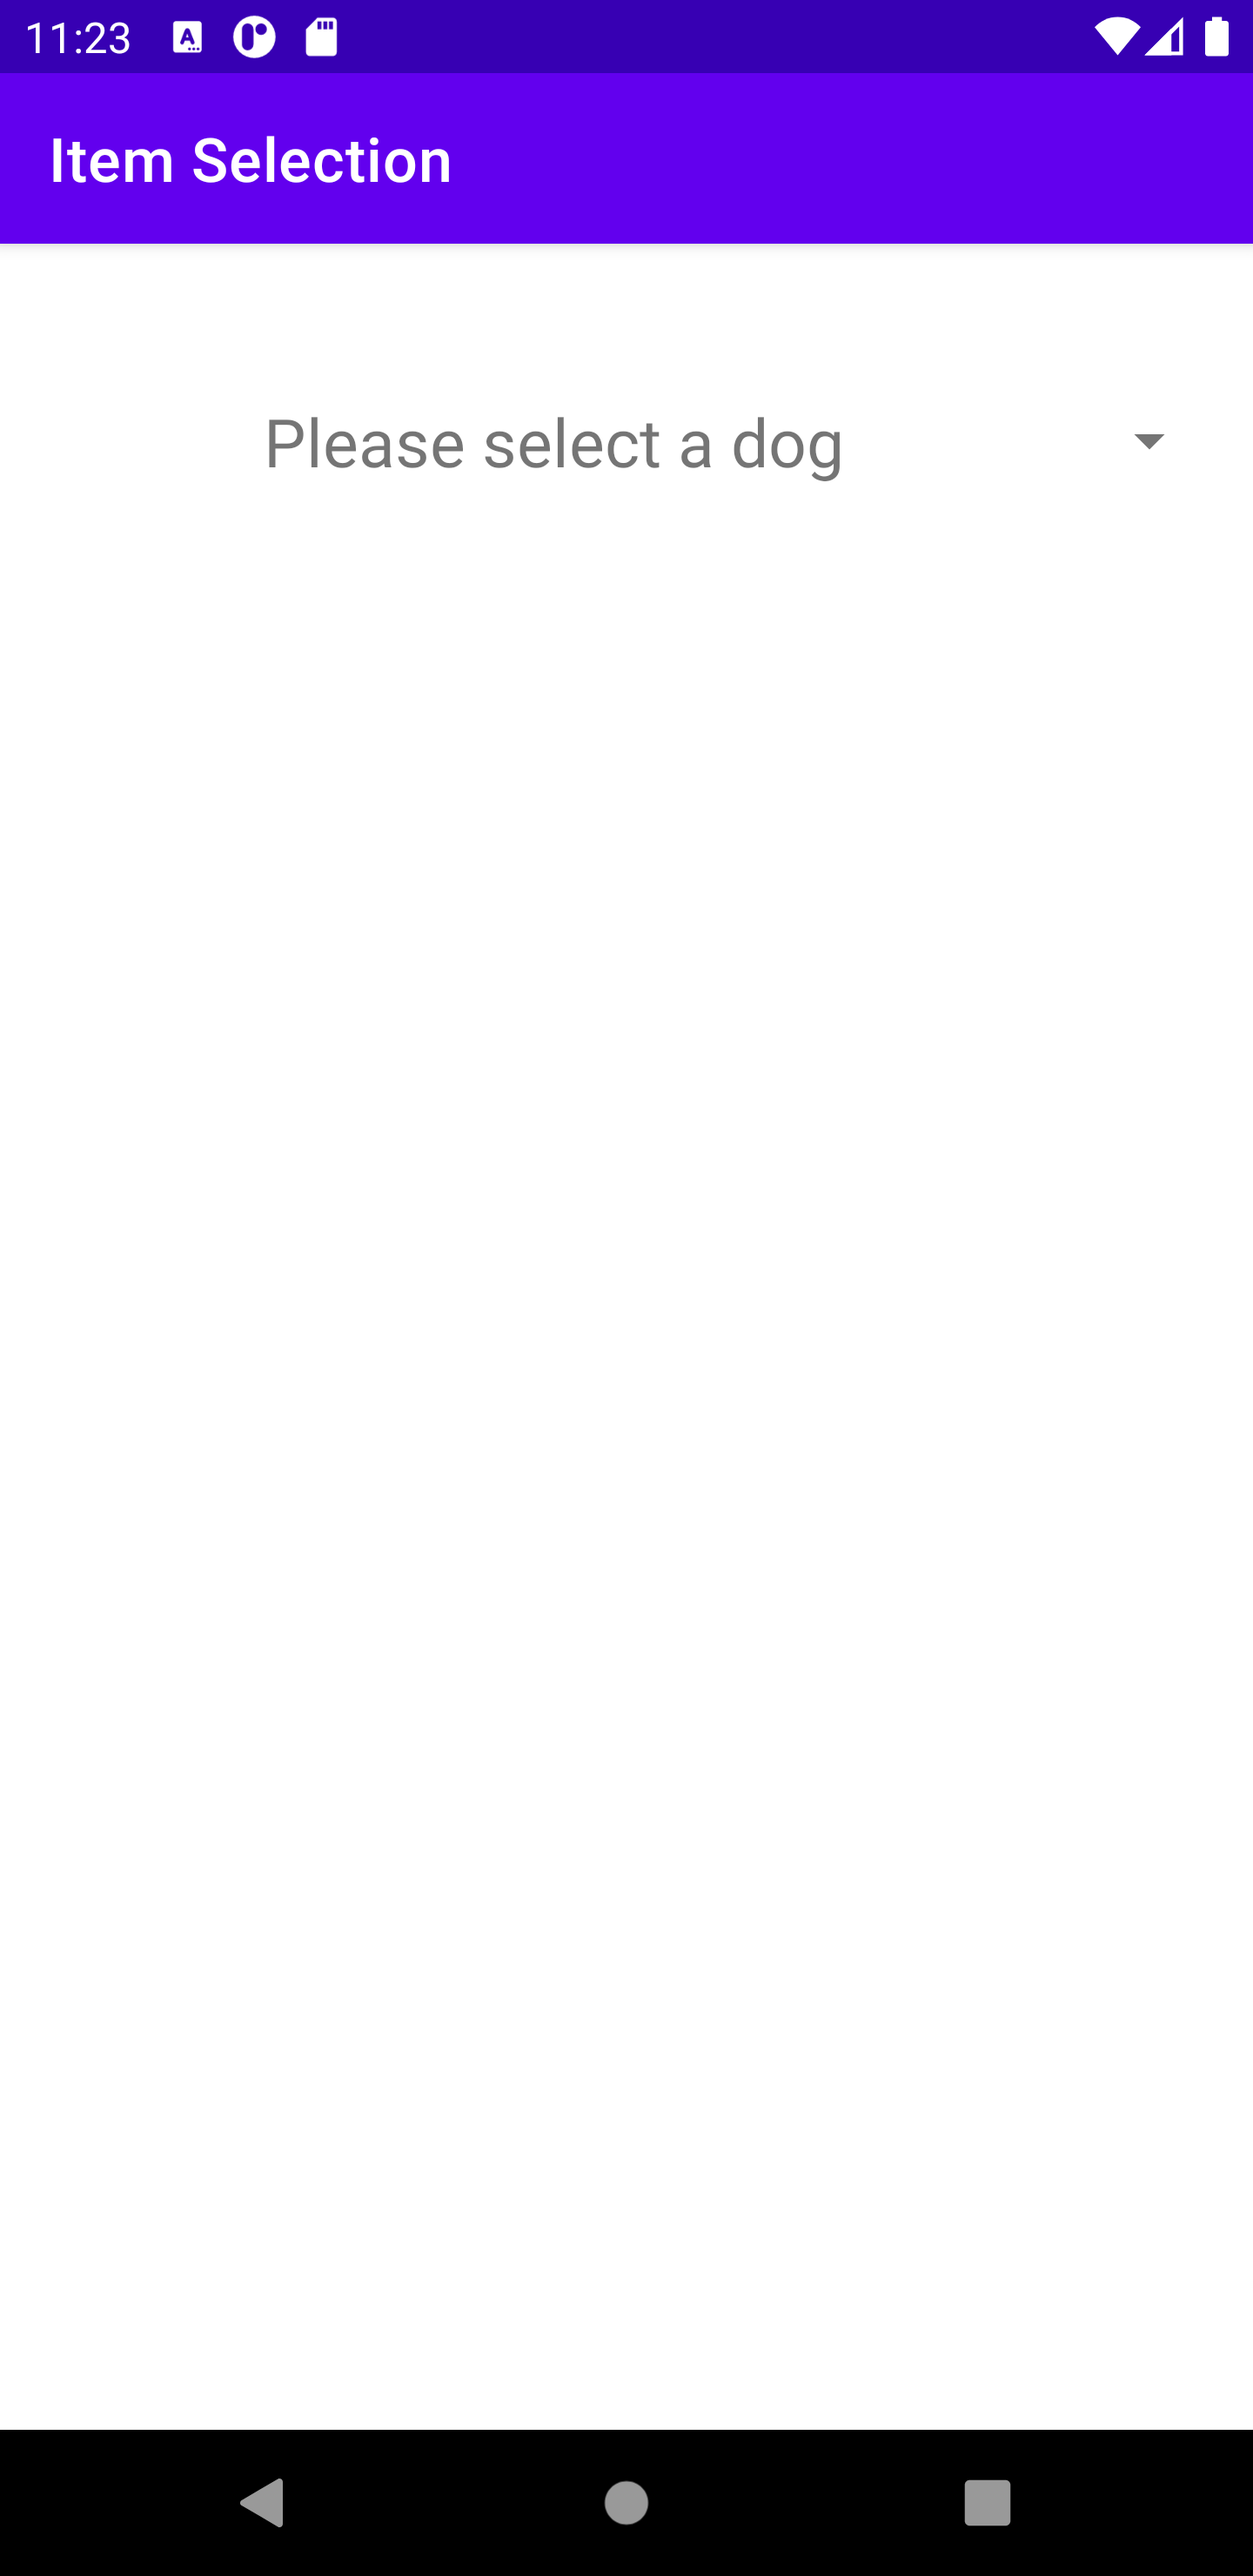
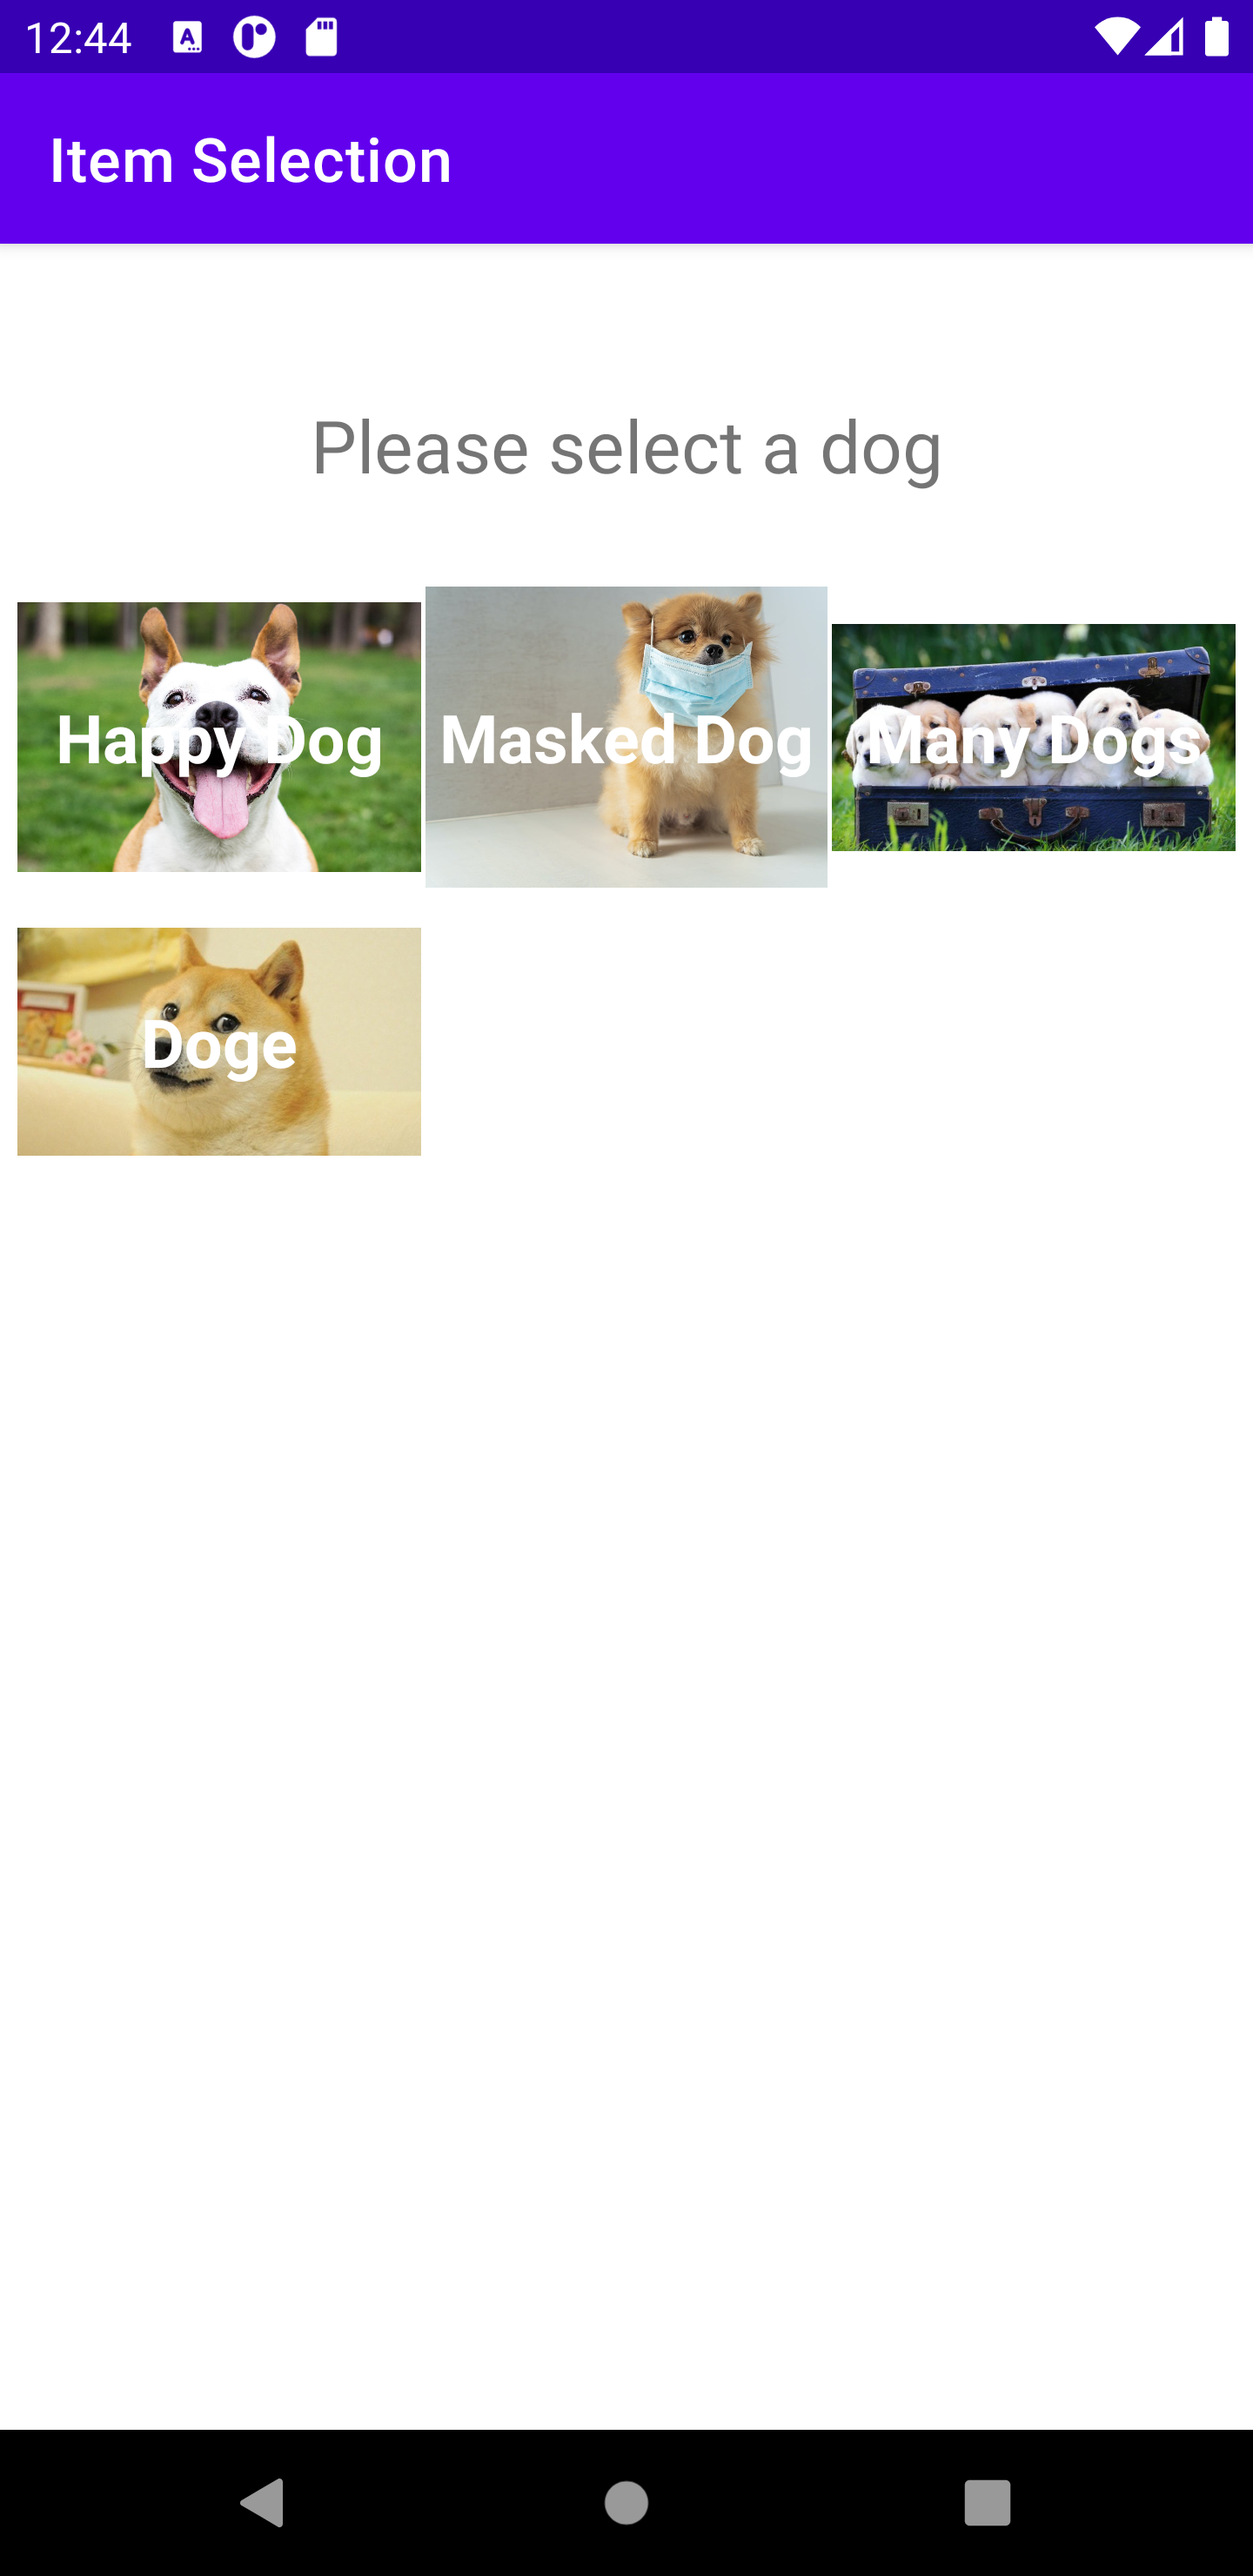
updated README with screenshots

Changed region(s): [[0.0, 0.2176, 1.0, 0.4662], [0.2188, 0.1554, 0.75, 0.1865], [0.0312, 0.0, 0.0938, 0.0311]]

diff --git a/README.md b/README.md
@@ -1,17 +1,13 @@
 # Select and Display activity
-In this lab, we modified lab 3. It was changed so that instead of displaying an image when an option
-was selected from the spinner, a new activity would be started. This activity would display the
-TextView and the ImageView instead of on our main page. When we click back it will display the
-original home page with the instructions selected.
+This lab was a modification of lab 4. We used a new branch inside our lab 4 and modified it for our
+lab 5 assignment. Instead of an spinner, we modified the code to use a grid view.
+
+Our grid view displays the name and image of a dog. In addition, we also added a text view to display
+instructions for the user. We use a text view because previously, we used the first position of our
+spinner to display instructions.
 
 ## This is the page we see when we first launch the app
 ![main](images/main.png)
 
-## When you click the dropdown, this is what you get
-![dropdown](images/dropdown.png)
-
-## If you select an option, it will launch a new activity. That looks like this
-![clicked](images/clicked.png)
-
-## If we click the back button, we go back to the main page
-![return](images/return.png)
+## This is the what you'll see if you click on an grid item
+![click](images/click.png)
